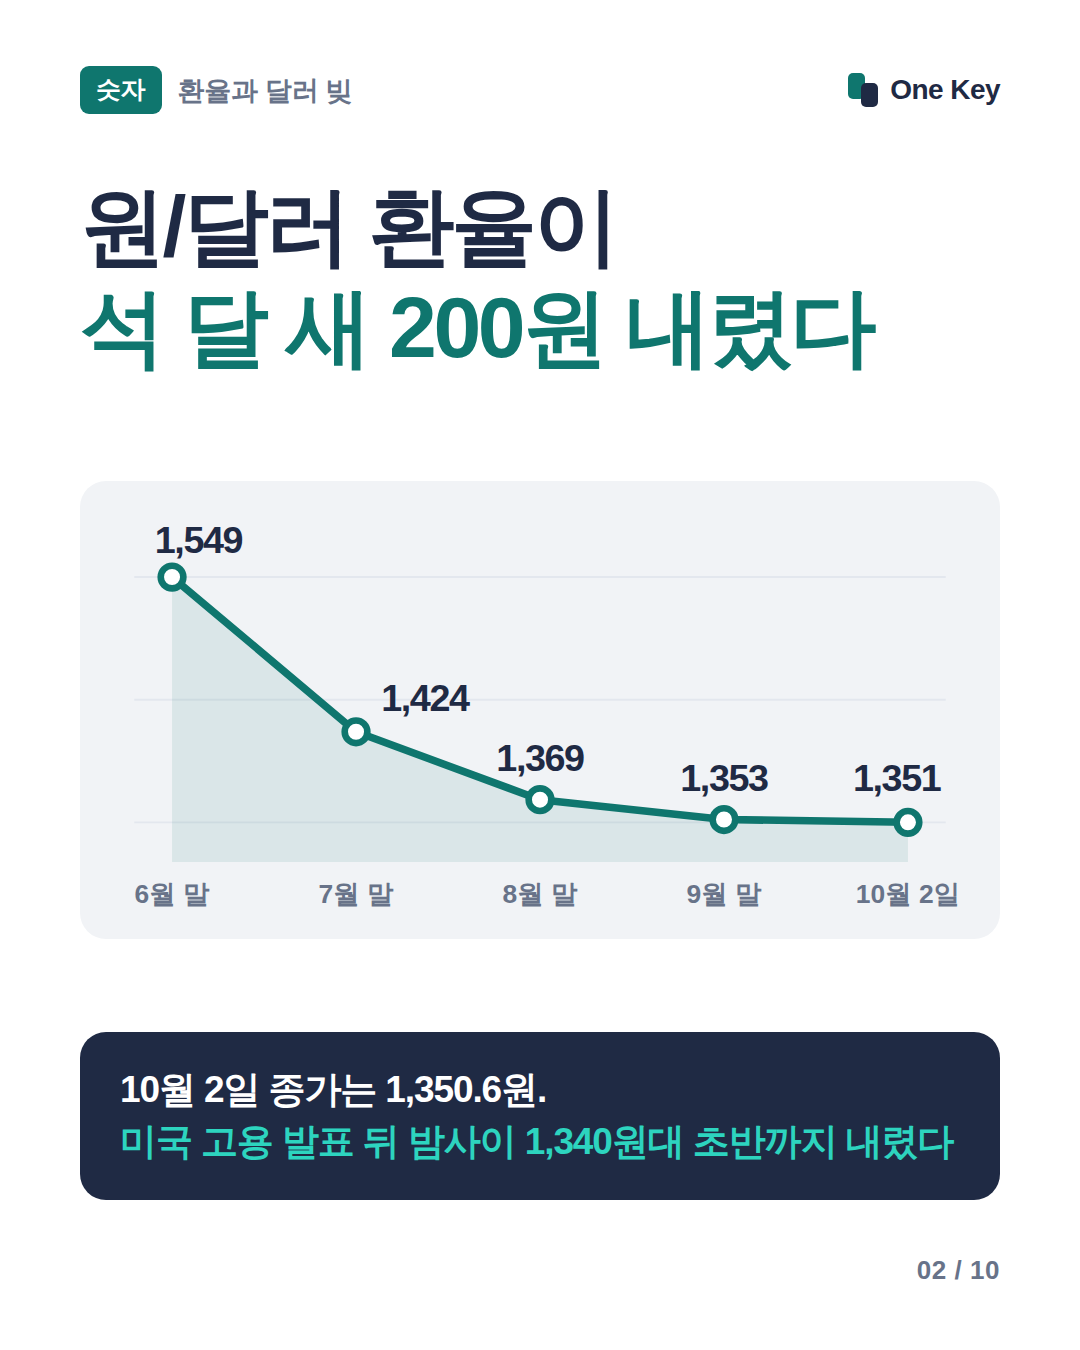
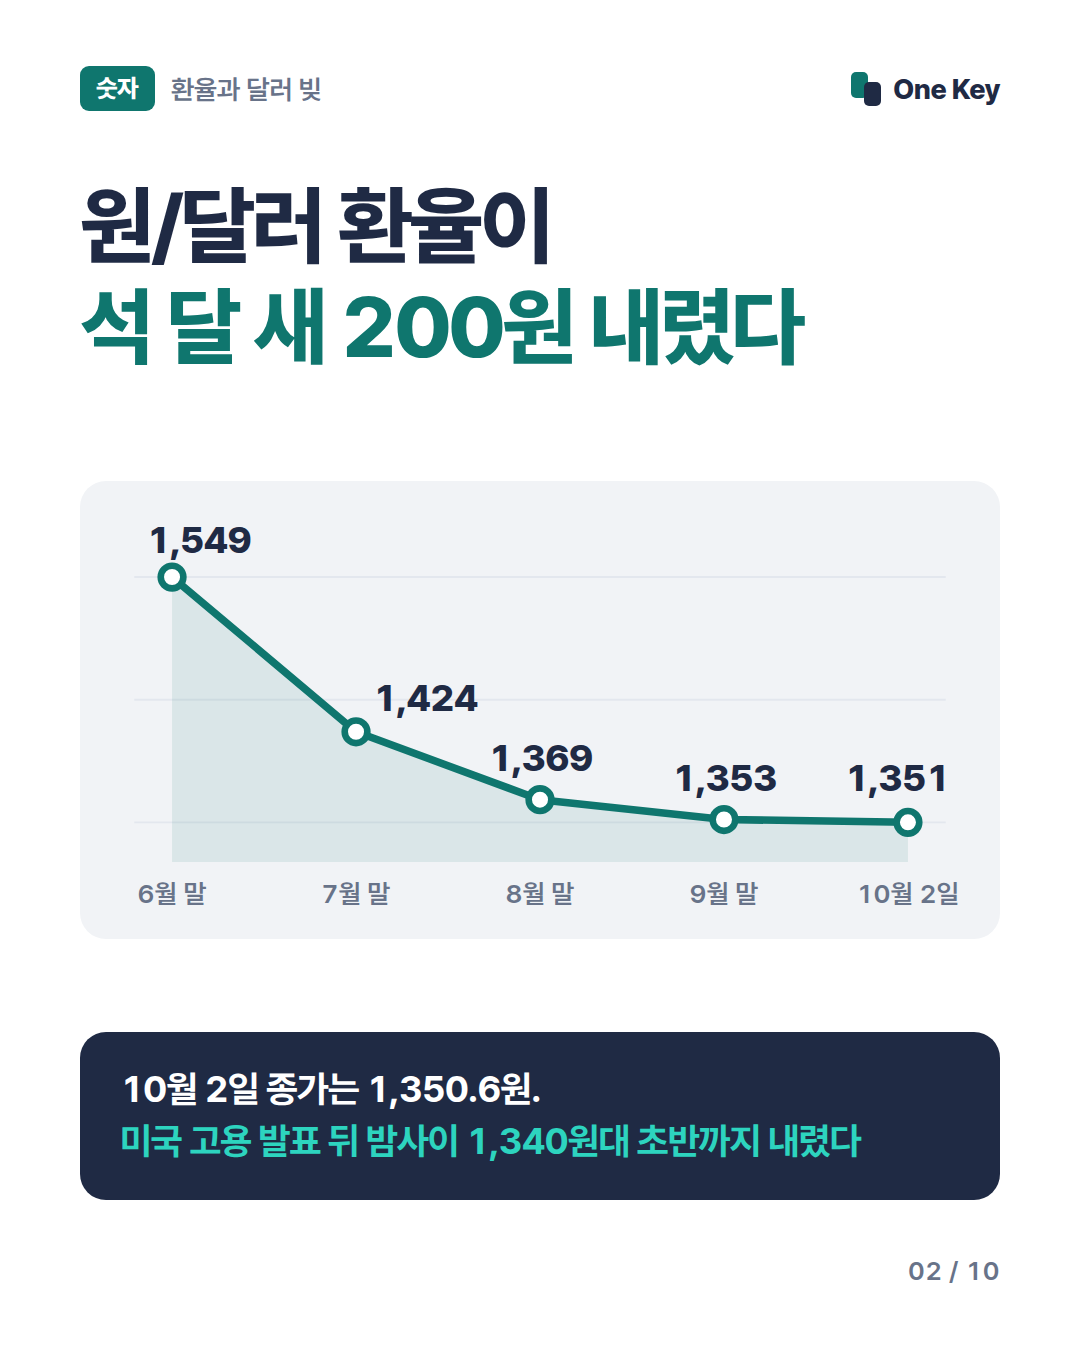
카드 뽑기 시험 결과 (세 번째)
Claude-Session: https://claude.ai/code/session_01LmqndZ5hjXuPA31shiXB33

diff --git a/cards/시험결과.md b/cards/시험결과.md
@@ -1,35 +1,18 @@
-# 카드 뽑기 시험 결과 (2026-10-05, 클라우드 환경, 두 번째 실행)
+# 카드 뽑기 시험 결과 (세 번째)
 
-| 항목 | 판정 |
+| 항목 | 결과 |
 |---|---|
-| 크롬 | 있었음 (PATH에는 없고 `/opt/pw-browsers/chromium-1194/chrome-linux/chrome`에 미리 깔려 있음. `CARD_CHROME`으로 알려 줌) |
-| 뽑기 | 됨 (10장 PNG + 모음.png + 올릴것/ JPG 10장) |
-| 자동 점검 | 걸림 (04번 장: 넘침 11px) |
-| 글꼴 | 떴음 (자동 점검의 글꼴 항목이 걸리지 않음. 02.png 눈으로는 대체 글꼴과 구별 못 함) |
-| 글꼴 주소 접속 | 됨 (200) |
-| 사진 파일 접속 | 됨 (200) |
-| 사진 창구 접속 | 됨 (301, 접속은 된 것) |
-| 뽑는 데 걸린 시간 | 약 14.4초 |
+| 뽑기 | 됨 (종료 코드 0, 10장) |
+| 자동 점검 | 통과 |
+| 글꼴 | 받아 둔 파일로 (도구가 찍은 말: "알아 둘 것: 글꼴은 받아 둔 파일로 뽑았다") |
+| 글꼴 파일 받기 | 됨 (PretendardVariable.woff2, 2009KB) |
+| 크롬이 직접 인터넷 접속 | 안 됨 (ERR_CERT_AUTHORITY_INVALID, 출력에 @font-face 없음) |
+| 글꼴 정의 주소 접속(curl) | 200 |
+| 사진 파일 접속(curl) | 200 |
+| 사진 창구 접속(curl) | 301 (접속됨) |
+| 뽑는 데 걸린 시간 | 12초 |
 
-참고: 앞선 실행에서는 세 주소 모두 403(CONNECT tunnel failed)이었고 글꼴도 안 떴다. 이번에는 세 주소 모두 열렸다. 환경의 네트워크 허용이 바뀐 것으로 보인다.
-
-## 2. 환경 조사
-```
-$ uname -a
-Linux vm 6.18.44-fc-v70 #1 SMP PREEMPT_DYNAMIC @0 x86_64 x86_64 x86_64 GNU/Linux
-$ whoami
-root
-$ python3 --version
-Python 3.11.15
-$ which google-chrome google-chrome-stable chromium chromium-browser
-(출력 없음, exit 1)
-$ fc-list | grep -i -E "noto|nanum|cjk" | head -5
-/usr/share/fonts/truetype/noto/NotoColorEmoji.ttf: Noto Color Emoji:style=Regular
-$ /opt/pw-browsers/chromium-1194/chrome-linux/chrome --version
-Chromium 141.0.7390.37
-```
-
-## 3. 접속
+## 2. 접속 확인 (curl)
 ```
 $ curl -sS -o /dev/null -w "%{http_code}" https://cdn.jsdelivr.net/gh/orioncactus/pretendard@v1.3.9/dist/web/variable/pretendardvariable.min.css
 200
@@ -39,29 +22,47 @@ $ curl -sS -o /dev/null -w "%{http_code}" https://api.unsplash.com/
 301
 ```
 
-## 4. pillow
+## 3. pillow
 ```
 $ pip install pillow
 Successfully installed pillow-12.3.0
 ```
 
-## 5. 크롬
-이미 있어서 설치하지 않았다. `export CARD_CHROME=/opt/pw-browsers/chromium-1194/chrome-linux/chrome`.
+## 4. 크롬 직접 접속
+환경 변수 이름(값 생략): CCR_AGENT_PROXY_ENABLED, no_proxy, NODE_EXTRA_CA_CERTS, GH_TOKEN, CCR_UPSTREAM_PROXY_ENABLED, CLOUDSDK_PROXY_TYPE, GITHUB_TOKEN, CLOUDSDK_AUTH_ACCESS_TOKEN, CLOUDSDK_PROXY_PORT, NIX_SSL_CERT_FILE, CLAUDE_CODE_PROXY_RESOLVES_HOSTS, AWS_SECRET_ACCESS_KEY, https_proxy, GLOBAL_AGENT_NO_PROXY, ELECTRON_GET_USE_PROXY, JAVA_TOOL_OPTIONS, CCR_AGENT_PROXY_CA_WATCH_ENABLED, CURL_CA_BUNDLE, NO_PROXY, AWS_ACCESS_KEY_ID, HTTPS_PROXY, SSL_CERT_FILE, REQUESTS_CA_BUNDLE, AWS_CA_BUNDLE, npm_config_noproxy, YARN_HTTPS_PROXY, CLOUDSDK_PROXY_ADDRESS, npm_config_https_proxy, DOCKER_HTTPS_PROXY, GLOBAL_AGENT_HTTPS_PROXY
 
-## 6. 뽑기
+첫 실행(앞 600바이트)은 dbus 오류만 보였다:
 ```
-$ python3 cards/tools/render.py "cards/편/2026-10-05_환율" --jpg
+[516:529:...:ERROR:dbus/bus.cc:408] Failed to connect to the bus: Failed to connect to socket /run/dbus/system_bus_socket: No such file or directory
+(같은 dbus 오류 반복)
+```
+같은 명령을 파일로 받아 다시 보니(종료 코드 0) `@font-face` 0건, 오류 이름 `ERR_CERT_AUTHORITY_INVALID`, 그리고 `ssl_client_socket_impl.cc:902 handshake failed ... net_error -202`. 크롬이 프록시의 인증서를 믿지 못한다 → 안 됨.
+
+## 5. 뽑기
+```
+$ python3 cards/tools/render.py "cards/편/2026-10-05_환율" --jpg --font
+글꼴 파일을 받아 두었다 → /home/user/onekey-invest.github.io/cards/tools/fonts/PretendardVariable.woff2 (2009KB)
 10장 → /home/user/onekey-invest.github.io/cards/편/2026-10-05_환율
-점검에서 걸린 것:
- - 04번 장: 넘침 11px
-(종료 코드 1, 걸린 시간 14.387초)
+알아 둘 것: 글꼴은 받아 둔 파일로 뽑았다
+점검 통과
+exit=0
+걸린 시간: 12초
 ```
 
-## 7. 결과물
+## 6. 파일과 크기
 ```
+$ ls -la cards/tools/fonts
+-rw-r--r-- 1 root root 2057688 Oct  5 05:50 PretendardVariable.woff2
+
 $ ls -la "cards/편/2026-10-05_환율"
-01.png 1400388 / 02.png 94009 / 03.png 990041 / 04.png 82697 / 05.png 97191
-06.png 95385 / 07.png 106662 / 08.png 100561 / 09.png 65817 / 10.png 96650
-deck.html 9337 / img/ (cover.jpg, inner.jpg) / 모음.png 883194 / 올릴것/ (01~10.jpg)
-01.png 크기: 1080×1350
+01.png 1394019 / 02.png 88564 / 03.png 988999 / 04.png 78888 / 05.png 90610
+06.png 86977 / 07.png 101743 / 08.png 89337 / 09.png 59955 / 10.png 90768
+deck.html 9337 / img/ (폴더) / 모음.png 860780 / 올릴것/ (폴더)
 ```
+(요청한 JPG가 눈에 띄는 곳은 `올릴것/` 폴더 안에 있을 것으로 보이나 이 목록에는 펼치지 않았다.)
+
+01.png: 1080×1350, 04.png: 1080×1350
+
+## 7. 04.png 눈으로 본 결과
+- 숫자 73.5, 86.9, 75.8: 굵고 둥근 고딕(Pretendard)으로 보인다.
+- 아래 설명 줄 "5대 은행(KB국민·신한·하나·우리·NH농협)의 달러 대출 잔액이다.": 한 줄에 들어갔다.
